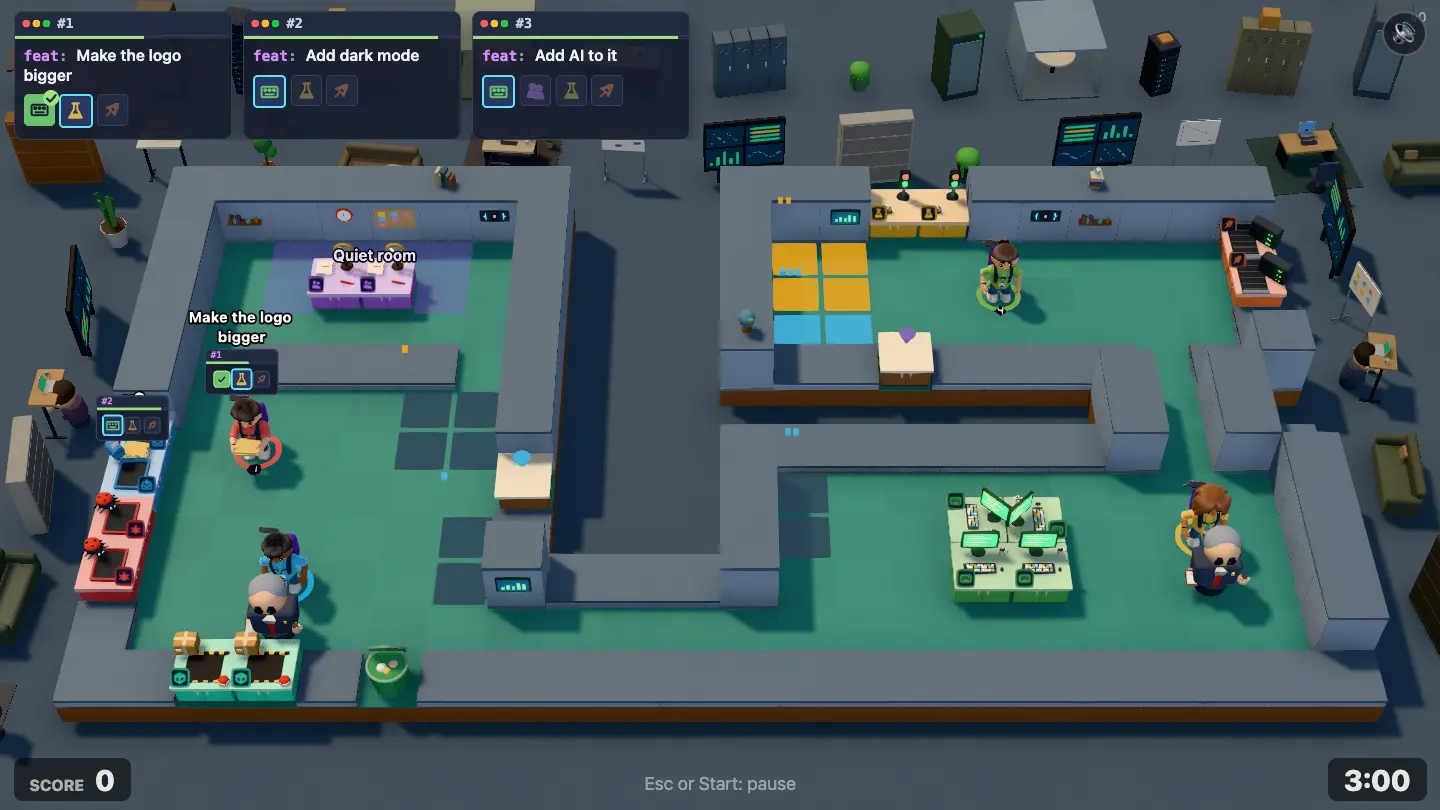
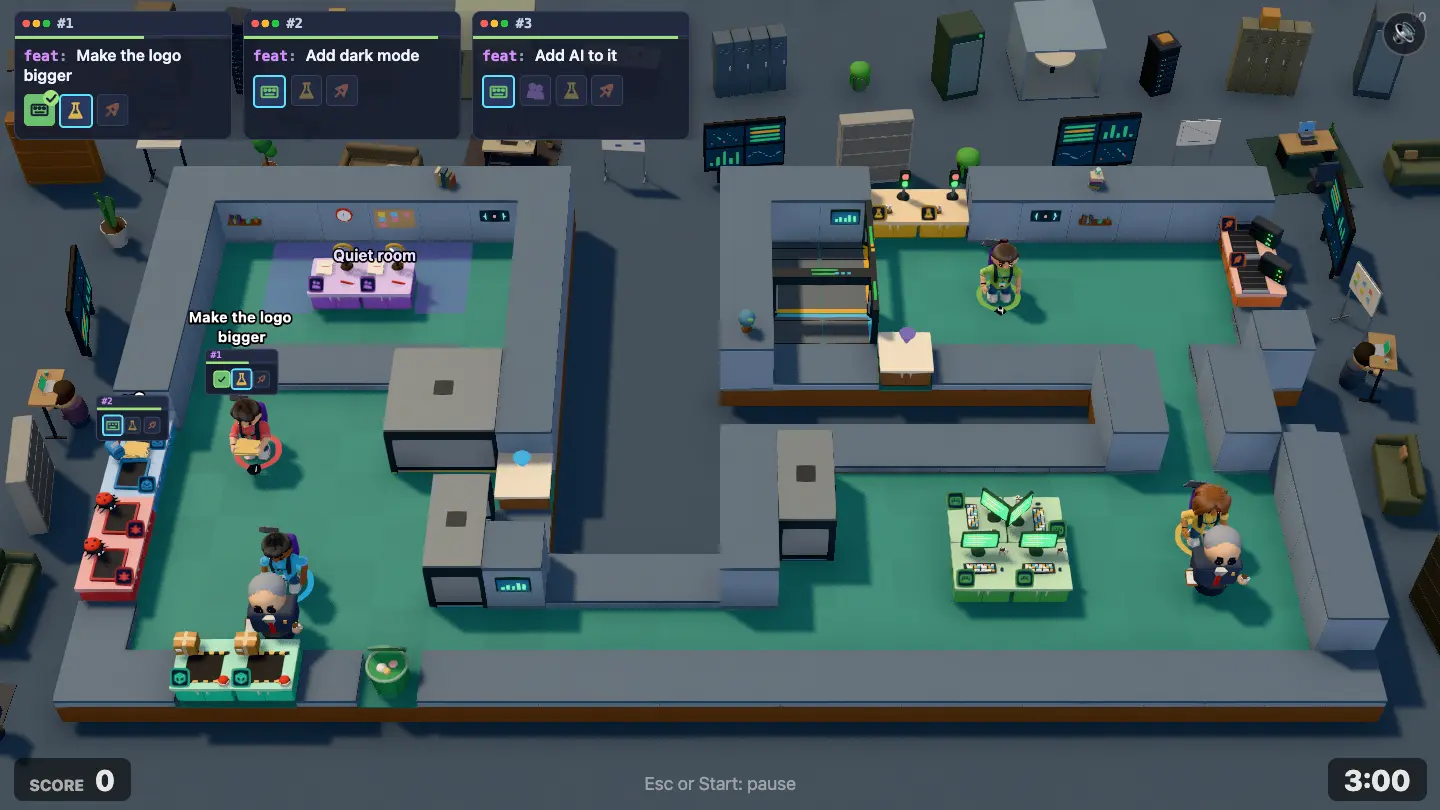
Docs for the lift redesign: the 3-2 map, the lift in the mechanics and phase 23, recalibrated stars, the brief's lift redesign section, new shots of 3-2, 3-3, Hackathon and the lifts scene

Changed region(s): [[0.25, 0.4321, 0.375, 0.8025], [0.5312, 0.5247, 0.625, 0.7407], [0.5312, 0.2469, 0.6562, 0.4321]]

diff --git a/docs/plan/phase-23-level-redesign.md b/docs/plan/phase-23-level-redesign.md
@@ -377,7 +377,7 @@ The company outgrows one room: 3-1 is one big corporate floor with a real corner
 
 #### Scale-Up mechanics (spec for the build phase)
 
-- **Lift (`L`):** a cabin of 1 to 4 tiles on each floor it stops at; the level lists which cabins pair up. On a fixed cycle (doors open about 3 s, ride about 2 s) everyone standing in the cabin, with what they carry, moves to the paired cabin on the next floor, keeping their place in the cabin. Telegraph: a light above the doors and a door chime 1 s before departure; floor numbers over the doors. Managers ride too and take a place. Solo: never needs a second player; the stairs are always there. 4 players: the cabin is the queue. Bots: a path edge between paired cabins weighted by the expected wait. Stand-in: floor.
+- **Lift (`L`):** a cabin of 1 to 4 tiles on each floor it stops at; the level lists which cabins pair up. On a fixed cycle (doors open about 3 s, ride about 2 s) everyone standing in the cabin, with what they carry, moves to the paired cabin on the next floor, keeping their place in the cabin. The cabin is a car with doors: they shut in the last second before it leaves and stay shut while it is elsewhere, riders wait in the shut car and step out when it opens on the next floor, and paths never walk through a car. Build cars with walls round them and one door side. Telegraph: a light above the doors and a door chime 1 s before departure; floor numbers over the doors. Managers ride too and take a place. Solo: never needs a second player; the stairs are always there. 4 players: the cabin is the queue. Bots: a path edge between paired cabins weighted by the expected wait. Stand-in: floor.
 - **Express lift (`l`):** like `L`, but it skips the middle floor and has a bigger cabin (2×2) with a longer cycle. Telegraph: amber cabin floor and an "E" over the doors. Solo: worth it only when it is about to leave. 4 players: takes the whole team in one go. Bots: same as `L`. Stand-in: floor.
 - **Lift breakdown:** a level setting, not a tile (for example `liftBreakdowns: [{ lift: 'express', at: 60, seconds: 20 }]`). The express goes out of order once or twice a round for about 20 s, telegraphed 5 s ahead (cabin lights flicker, an "Out of order" sign drops over the doors, a sad chime). People inside get out on the floor they are on. Everyone uses the local lift or the stairs meanwhile, so the local lift crowds and the stairwell fills. Never blocks solo: the local lift and the stairs keep working. Bots: drop the edge while it is broken. Stand-in: none (the setting is ignored).
 - **Mail chute (`H`):** a one-way pair of hatches, upstairs to downstairs. Put or throw a ticket on the top hatch; after about 2 s it slides out of the bottom hatch, where anyone picks it up. Only tickets fit, people take the lift. Telegraph: a down arrow on both hatches and a rattle while a ticket travels. Reuses counters and throwing. Solo: saves carrying the ticket down, but you still walk down to deploy or ship. 4 players: the floor above sends work down without anyone leaving. Bots: a ticket-only edge from top to bottom hatch. Stand-in: counter.
@@ -429,10 +429,10 @@ The company outgrows one room: 3-1 is one big corporate floor with a real corner
               ##KK#KK###
               #........#
               #.....3..T
-  ##II#BB##   H........T
-  #.1...LL#   #LL......#
-  #.....LL#   #LL..M...#
-  X.......#   #.....4..#
+  #IIBB####   ###......T
+  #.1..#LL#   #LL#.....#
+  #....#LL#   #LL#.M...#
+  X.......#   H.....4..#
   #.......H   #........#
   S.......#   ######.###
   S.2.....##########.#
@@ -440,8 +440,9 @@ The company outgrows one room: 3-1 is one big corporate floor with a real corner
   ####PP##############
   ```
 
-- **Lift pairing:** one lift: the ground cabin (6–7,4–5) ↔ the first-floor cabin (13–14,4–5), facing each other across the shaft. Holds 4 (or 3 and the manager).
-- **Mail chute:** the first-floor hatch (12,3, in the left wall, used from 13,3) → the ground hatch (8,7, in the right wall, used from 7,7).
+- **Lift pairing:** one lift: the ground car (6–7,4–5) ↔ the first-floor car (13–14,4–5), either side of the shaft. Each car has walls on three sides and its doors at the front, toward the camera. Holds 4 (or 3 and the manager).
+- **Mail chute:** the first-floor hatch (12,6, in the shaft wall beside the upstairs lift lobby, used from 13,6) → the ground hatch (8,7, in the right wall, used from 7,7).
+- **Lift redesign (2026-11-16):** the cars were walled in so the lift is a place you walk into, not a patch of floor: the inbox and bug queue moved one tile left (1–2 and 3–4, row 3) to make room for the ground car's left wall, and the chute's top hatch moved from (12,3) to (12,6) because the upstairs car's back wall took its only access tile. Recalibrated: bots [15, 120, 165, 235].
 - **Sketch:** ![3-2 Hypergrowth, current left, draft right](images/level-redesign/hypergrowth.svg)
 - **3D render:** ![3-2 Hypergrowth draft in the game](images/level-redesign/hypergrowth-3d.webp)
 - **Report:** (stand-in: no lift, so the stairwell is the only way up)

diff --git a/docs/plan/hypergrowth-environment.md b/docs/plan/hypergrowth-environment.md
@@ -1,12 +1,12 @@
 # Hypergrowth environment pass
 
-**Status:** two rounds done (build, critic review, fixes). Level 3-2 (`hypergrowth`, "Hypergrowth"), the second level of the Scale-Up chapter, gets a hand-built world after [Middle Management](middle-management-environment.md) (3-1), in the same building.
+**Status:** two rounds done (build, critic review, fixes), then a lift redesign that changed the map and the lift mechanic (below). Level 3-2 (`hypergrowth`, "Hypergrowth"), the second level of the Scale-Up chapter, gets a hand-built world after [Middle Management](middle-management-environment.md) (3-1), in the same building.
 
 | Before                                          | After                                          |
 | ----------------------------------------------- | ---------------------------------------------- |
 | ![](images/hypergrowth-environment/before.webp) | ![](images/hypergrowth-environment/after.webp) |
 
-**Goal:** the world around the level tells one story, the way Overcooked 2 levels do. Render only (`src/render/`); the sim, maps and balance don't change.
+**Goal:** the world around the level tells one story, the way Overcooked 2 levels do. Render only (`src/render/`); the sim, maps and balance don't change. (The lift redesign after round 2 is the exception: see [Lift redesign](#lift-redesign).)
 
 ## The story in two sentences
 
@@ -32,10 +32,10 @@ The map (`maps/level-08-hypergrowth.txt`, 22×12) is two islands. Top of screen 
             ##KK#KK###      rows 0-8, x 12-21: FIRST FLOOR (engineering): keyboards back, tests right
             #........#
             #.....3..T
-##II#BB##   H........T      H (12,3): the chute's top hatch
-#.1...LL#   #LL......#      L: the lift cabins, ground (6-7,4-5) and first (13-14,4-5), facing across the shaft
-#.....LL#   #LL..M...#      M: Derek starts upstairs
-X.......#   #.....4..#      X (0,6): the bin
+#IIBB####   ###......T      (the map after the lift redesign; the brief below was written for the map before it)
+#.1..#LL#   #LL#.....#      L: the lift cars, ground (6-7,4-5) and first (13-14,4-5), walled in, doors at the front
+#....#LL#   #LL#.M...#      M: Derek starts upstairs
+X.......#   H.....4..#      H (12,6): the chute's top hatch; X (0,6): the bin
 #.......H   #........#      H (8,7): the chute's bottom hatch
 S.......#   ######.###      S (0,8-9): ship = the loading bay, on the LEFT wall
 S.2.....##########.#        (18,8): the first floor's front door, top of the stairs
@@ -144,6 +144,17 @@ Left for later:
 - **The ship station's mint** is darker than the warm rubber floor round it; it separates by hue, not brightness.
 - **The first-floor carpet is about as bright as the yellow test bench** (157 vs 155); the bench stands out by saturation.
 - The critic did not re-score round 2. Not checked on a real GPU.
+
+## Lift redesign
+
+After round 2 the lift still felt like teleporting: its cabins were 2×2 patches of open floor with blue plates, open on two or three sides, and the sim moved riders to the other floor the moment the lift left. Now the lift is a place you walk into:
+
+- **Sim (every lift, not the shuttle):** a car only lets people in while the lift stands open at that floor, and not in its last second (the chime, while the doors close). Riders wait in the shut car for the ride and step out when its doors open on the next floor. Paths ride cars but never walk through one; managers wait at shut doors.
+- **Map:** both cars walled in on three sides with their doors at the front, toward the camera. The inbox and bug queue moved one tile left for the ground car's left wall; the chute's top hatch moved from (12,3) to (12,6), on the shaft wall by the upstairs lift lobby.
+- **Render (`liftCars.ts`, every level with lifts):** a steel car floor with a sill in the lift's colour; jambs, a header with a light over the doors (green open, amber leaving, red broken) and the floor's pips; two steel leaves per doorway that slide shut over the chime second and open with a short slide on arrival; a roof once the doors are shut, with the riders and what they carry hidden inside. On 3-2 the walls round each car are its steel shell (handrail inside, panel seams); the painted doors and wall-top floor indicators of round 2 are gone.
+- **Balance:** the ride now really takes its 2 s. Recalibrated bots: Hypergrowth [15, 120, 165, 235] (was [30, 110, 180, 205]), Hot Desking [15, 55, 55, 120] (was [25, 55, 85, 140]), Hackathon [105, 200, 300, 365] (was [120, 220, 325, 360]).
+
+Left for later: Hot Desking's and Hackathon's cabins are still open on several sides, so their cars stand as free blocks with doors on more than one side (and Hot Desking's stacked express and local cabins touch). They need the same walling-in.
 
 ## Done when
 

diff --git a/docs/game/levels.md b/docs/game/levels.md
@@ -244,7 +244,7 @@ The biggest single open floor so far, with a corner office and a meeting room (q
 
 ![Hypergrowth](images/levels/hypergrowth.webp)
 
-The company now has two floors, drawn side by side: the ground floor (inbox, bugs, pipelines, ship) and the first floor (keyboards, test benches). A lift joins them, the stairs are a long way round, and a mail chute drops finished work from upstairs to the ground floor. The manager rides the lift too.
+The company now has two floors, drawn side by side: the ground floor (inbox, bugs, pipelines, ship) and the first floor (keyboards, test benches). A lift joins them: walk into the car, the doors slide shut, and they open on the other floor. The stairs are a long way round, and a mail chute drops finished work from upstairs to the ground floor. The manager rides the lift too.
 
 - **New here:** Lifts and the mail chute.
 - **Extras:** incidents, 1 manager
@@ -254,10 +254,10 @@ The company now has two floors, drawn side by side: the ground floor (inbox, bug
             ##KK#KK###
             #........#
             #.....3..T
-##II#BB##   H........T
-#.1...LL#   #LL......#
-#.....LL#   #LL..M...#
-X.......#   #.....4..#
+#IIBB####   ###......T
+#.1..#LL#   #LL#.....#
+#....#LL#   #LL#.M...#
+X.......#   H.....4..#
 #.......H   #........#
 S.......#   ######.###
 S.2.....##########.#
@@ -265,9 +265,9 @@ S.2.....##########.#
 ####PP##############
 ```
 
-| Players      | 1        | 2         | 3          | 4          |
-| ------------ | -------- | --------- | ---------- | ---------- |
-| ★ / ★★ / ★★★ | 10/20/25 | 40/70/100 | 65/115/160 | 70/135/185 |
+| Players      | 1       | 2         | 3          | 4          |
+| ------------ | ------- | --------- | ---------- | ---------- |
+| ★ / ★★ / ★★★ | 5/10/10 | 40/80/110 | 60/105/150 | 80/155/210 |
 
 ### 3-3 Hot Desking
 
@@ -296,9 +296,9 @@ B..2..L#####...KK..M.#
 ##SS#X################
 ```
 
-| Players      | 1        | 2        | 3        | 4         |
-| ------------ | -------- | -------- | -------- | --------- |
-| ★ / ★★ / ★★★ | 10/15/20 | 20/35/50 | 30/55/75 | 50/90/125 |
+| Players      | 1       | 2        | 3        | 4         |
+| ------------ | ------- | -------- | -------- | --------- |
+| ★ / ★★ / ★★★ | 5/10/10 | 20/35/50 | 20/35/50 | 40/80/110 |
 
 ## Chapter: Enterprise
 
@@ -583,6 +583,6 @@ G........____C.......#
 ######TT##SS#####
 ```
 
-| Players      | 1         | 2          | 3           | 4           |
-| ------------ | --------- | ---------- | ----------- | ----------- |
-| ★ / ★★ / ★★★ | 40/80/110 | 75/145/200 | 115/210/295 | 125/235/325 |
+| Players      | 1        | 2          | 3           | 4           |
+| ------------ | -------- | ---------- | ----------- | ----------- |
+| ★ / ★★ / ★★★ | 35/70/95 | 70/130/180 | 105/195/270 | 130/235/330 |

diff --git a/docs/game/mechanics.md b/docs/game/mechanics.md
@@ -102,7 +102,7 @@ A manager walks from spot to spot, stops for a chat and walks on. Players can't 
 
 ## Lifts and the mail chute (from Hypergrowth)
 
-Floors are drawn side by side. A **lift** has a cabin (`L`) on each floor it stops at: it stands open for 3 s (a chime a second before it leaves), then everyone standing in the cabin rides to the next floor, keeping their place and what they carry. Managers ride too. The **express** (`l`) is bigger and skips a floor, and on Hot Desking it breaks down now and then (its cabin lights flicker 5 s before). The stairs always work. A **mail chute** (`H`) sends a ticket from the top hatch down to the bottom one in 2 s: people take the lift.
+Floors are drawn side by side. A **lift** has a car (`L`) on each floor it stops at. The car stands open for 3 s; a chime and an amber light over the doors say it leaves in a second, and the doors slide shut (nobody gets in then). Everyone inside rides in the shut car for 2 s, keeping their place and what they carry, and steps out when the doors open on the next floor. While the lift is on another floor its doors there stay shut. A car is a dead end, not a corridor: build it with walls round it and one door side. Managers ride too. The **express** (`l`) is bigger and skips a floor, and on Hot Desking it breaks down now and then (its cabin lights flicker 5 s before). The stairs always work. A **mail chute** (`H`) sends a ticket from the top hatch down to the bottom one in 2 s: people take the lift.
 
 ![Three floors with a local lift, an express and a mail chute](images/mechanics/lifts.webp)
 
